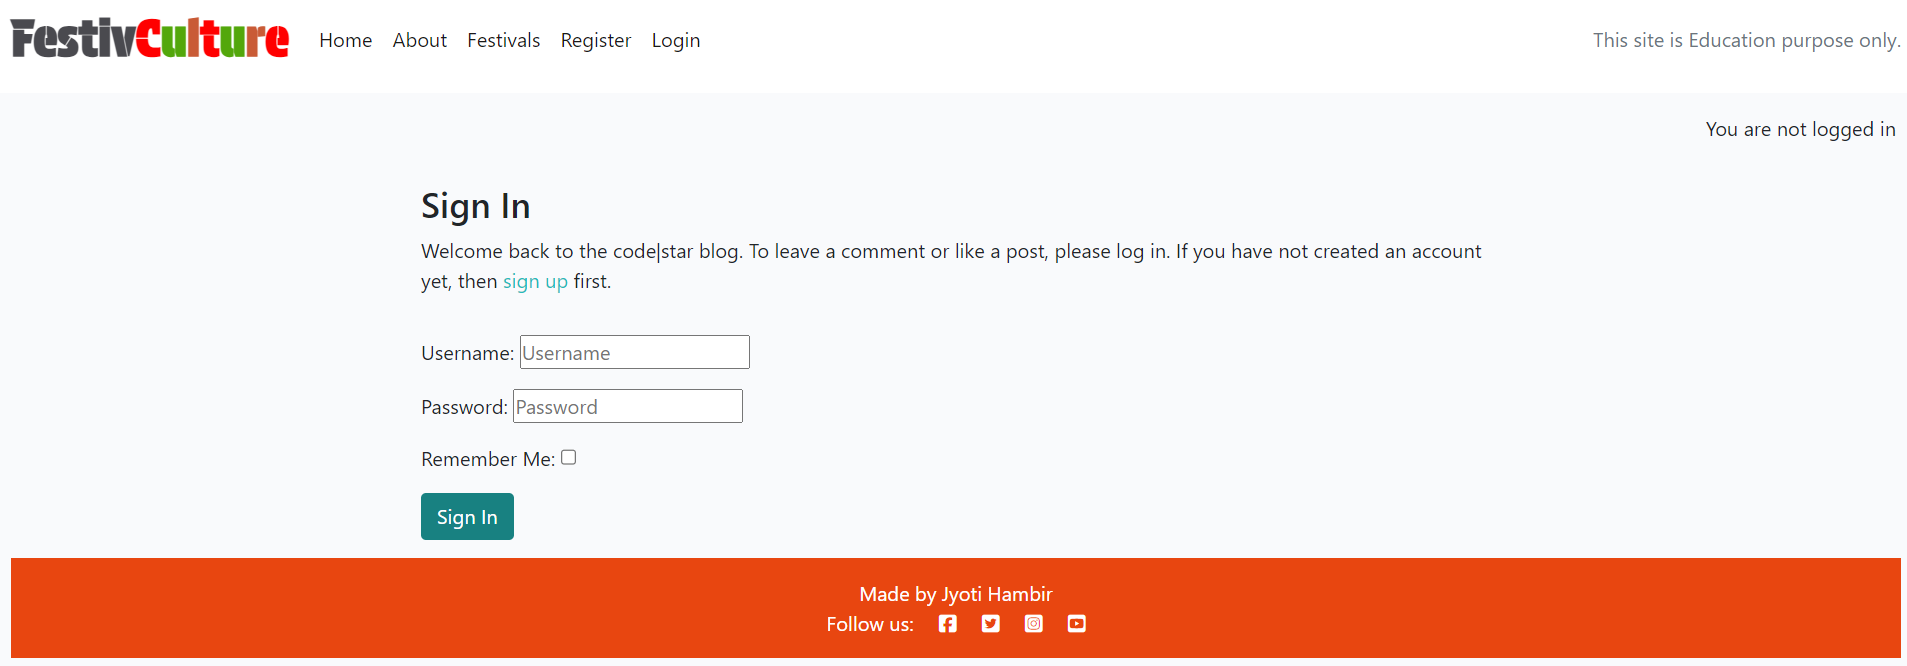
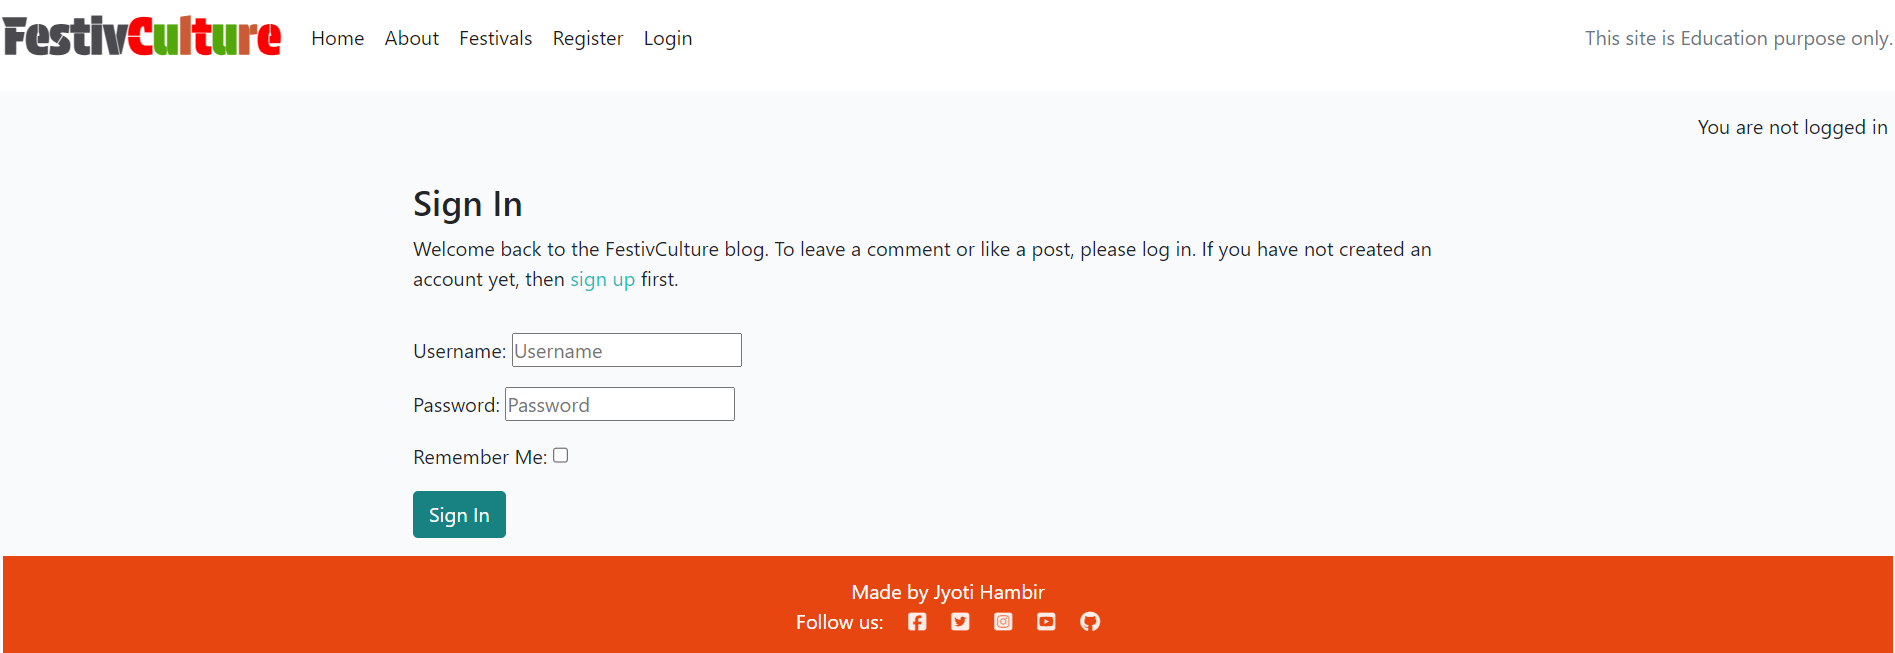
add the project name in register and login html

diff --git a/templates/account/login.html b/templates/account/login.html
@@ -12,7 +12,7 @@
         <div class="col-md-8 mt-3 offset-md-2">
             <h3>{% trans "Sign In" %}</h3>
 
-            <p>{% blocktrans %}Welcome back to the code|star blog. To leave a comment or like a post, please log in. If
+            <p>{% blocktrans %}Welcome back to the FestivCulture blog. To leave a comment or like a post, please log in. If
                 you
                 have not created an account yet, then <a class="link" href="{{ signup_url }}">sign up</a>
                 first.{% endblocktrans %}</p>

diff --git a/templates/account/signup.html b/templates/account/signup.html
@@ -11,7 +11,7 @@
     <div class="col-md-8 mt-3 offset-md-2">
       <h1>{% trans "Sign Up" %}</h1>
       <p>{% blocktrans %}
-        Welcome back to the code|star blog.
+        Welcome back to the FestivCulture blog.
         Already have an account? Then please
         <a class="link" href="{{ login_url }}">sign in </a>instead.
         {% endblocktrans %}

diff --git a/README.md b/README.md
@@ -65,8 +65,6 @@
   - [Final Deployment](#4-final-deployment) 
 - [Credits](#credits)
 
-
-
 -----------------------------------------------------------------------------------------------------------------
 
  # User Experience - UX
@@ -182,7 +180,7 @@ Smart Draw was used to create a database schema to visualise the types of custom
 
 ![ER Diagram](assets/erd_diagram/ERD.png)
 
-[Back to top ⇧](#content)
+[Back to top ⇧](#purpose-and-targeted-audience)
 
 -----------------------------------------------------------------------------------------------------------------
 
